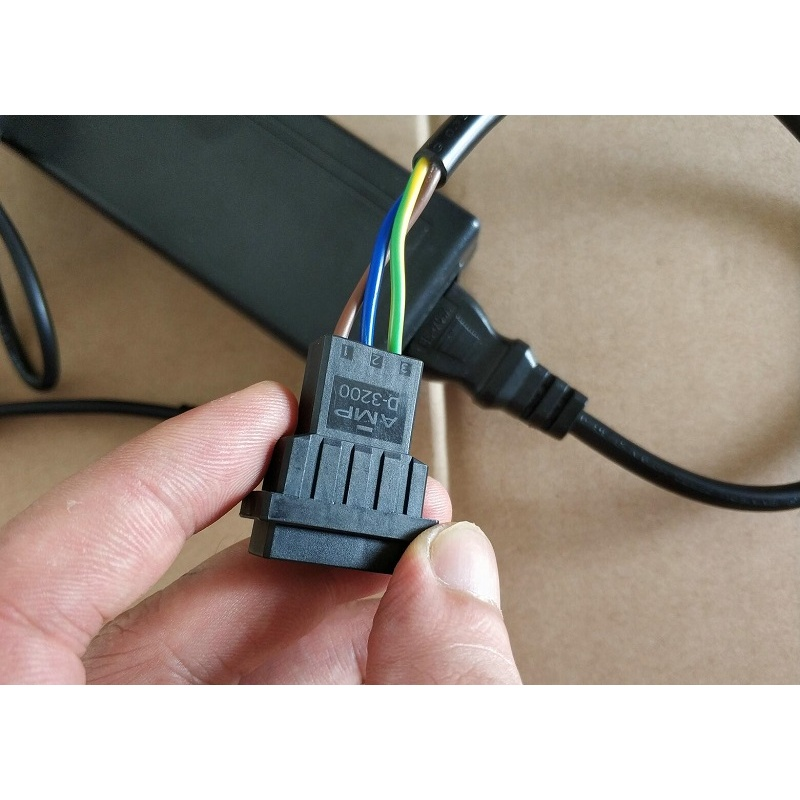
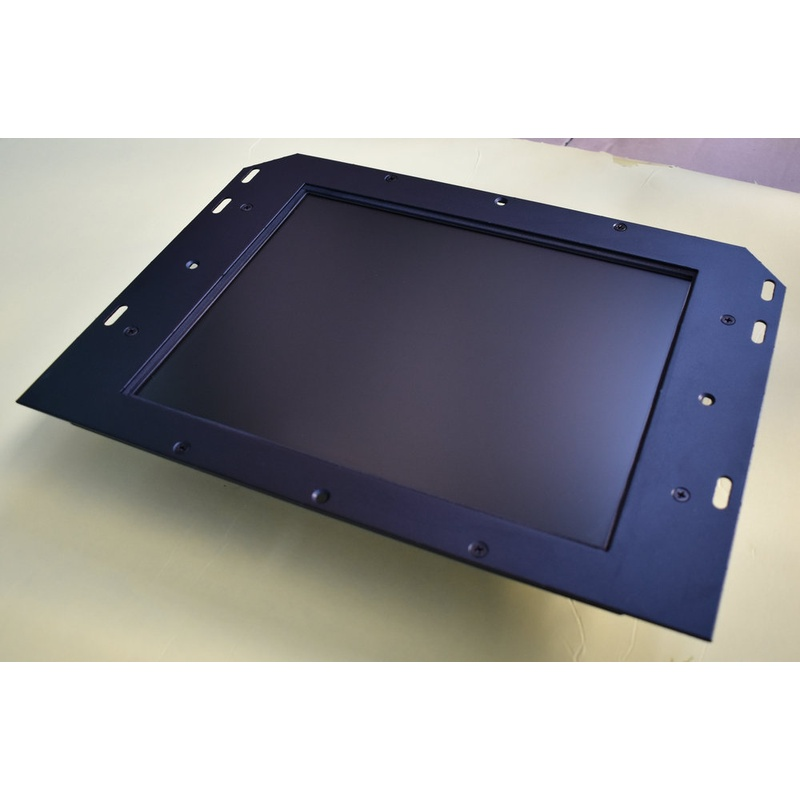
fix: A02B-0200-C071 9寸单色→14寸彩色, 新图+V3.4B

diff --git a/products/fanuc-a02b-0200-c071-lcd-upgrade.html b/products/fanuc-a02b-0200-c071-lcd-upgrade.html
@@ -108,7 +108,7 @@
 
 
 
-<title>FANUC A02B-0200-C071 Display Replacement LCD | 9-inch CRT Upgrade for CNC Systems | Kongto</title>
+<title>FANUC A02B-0200-C071 14-inch Color CRT to 12.1-inch LCD Upgrade | CNC Display Replacement | Kongto</title>
 
 
 
@@ -130,7 +130,7 @@
 
 
 
-<meta name="description" content="FANUC A02B-0200-C071 9-inch monochrome CRT to 8-inch TFT-LCD upgrade. FANUC A02B-0200-C071 9-inch CRT to 8-inch TFT-LCD upgrade. Factory direct, plug-and-play, no rewiring. Immediate shipping.">
+<meta name="description" content="FANUC A02B-0200-C071 14-inch color CRT to 12.1-inch TFT-LCD upgrade. Factory direct, plug-and-play replacement for FANUC CNC systems.">
 
 
 
@@ -284,7 +284,7 @@
 
 
 
-<meta property="og:title" content="FANUC A02B-0200-C071 Display Replacement LCD | 9-inch CRT Upgrade for CNC Systems | Kongto">
+<meta property="og:title" content="FANUC A02B-0200-C071 14-inch CRT to LCD Upgrade | Kongto">
 
 
 
@@ -2178,7 +2178,7 @@ body{font-family:-apple-system,BlinkMacSystemFont,"Segoe UI",Roboto,sans-serif;l
 
 
 
-<h1>FANUC A02B-0200-C071 9-inch Display LCD | CRT Upgrade</h1>
+<h1>FANUC A02B-0200-C071 14-inch Color CRT to 12.1-inch LCD Upgrade | CNC Display Replacement</h1>
 
 
 
@@ -2200,7 +2200,7 @@ body{font-family:-apple-system,BlinkMacSystemFont,"Segoe UI",Roboto,sans-serif;l
 
 
 
-<p class="desc">FANUC A02B-0200-C071 9-inch CRT to 8-inch TFT-LCD upgrade. Factory direct, plug-and-play, no rewiring. Immediate shipping.</p>
+<p class="desc">FANUC A02B-0200-C071 14-inch color CRT to 12.1-inch TFT-LCD upgrade. Factory direct, plug-and-play, in-position replacement for FANUC CNC systems. Ships from stock.</p>
 
 
 
@@ -2696,6 +2696,9 @@ body{font-family:-apple-system,BlinkMacSystemFont,"Segoe UI",Roboto,sans-serif;l
 <div class="gallery-thumbs">
 <img src="/images/fanuc-a02b-0200-c071-lcd-upgrade_lcd_front_0.jpg" alt="Product image" class="active" onclick="switchImage(this)">
 <img src="/images/fanuc-a02b-0200-c071-lcd-upgrade_lcd_back_1.jpg" alt="Product image" class="" onclick="switchImage(this)">
+<img src="/images/fanuc-a02b-0200-c071-lcd-upgrade_effect_2.jpg" alt="Product image" class="" onclick="switchImage(this)">
+<img src="/images/fanuc-a02b-0200-c071-lcd-upgrade_label_3.jpg" alt="Product image" class="" onclick="switchImage(this)">
+<img src="/images/fanuc-a02b-0200-c071-lcd-upgrade_crt_4.jpg" alt="Product image" class="" onclick="switchImage(this)">
 </div>
 
 
@@ -2730,19 +2733,19 @@ body{font-family:-apple-system,BlinkMacSystemFont,"Segoe UI",Roboto,sans-serif;l
 <h2>Specifications</h2>
 <div style="overflow-x:auto"><table class="spec-table">
 <tr><th>Spec</th><th>Original CRT</th><th>Kongto LCD</th></tr>
-<tr><td>Technology</td><td>9-inch Monochrome CRT</td><td>8-inch TFT-LCD Industrial Panel</td></tr>
-<tr><td>Resolution</td><td>640x400 / 640x480</td><td><strong>800x600</strong></td></tr>
-<tr><td>Brightness</td><td>~200 cd/m2</td><td><strong>350-450 cd/m2</strong></td></tr>
+<tr><td>Technology</td><td>14-inch Color CRT</td><td>12.1-inch TFT-LCD Industrial Panel</td></tr>
+<tr><td>Resolution</td><td>640x480</td><td><strong>800x600</strong></td></tr>
+<tr><td>Brightness</td><td>~200 cd/m²</td><td><strong>400 cd/m²</strong></td></tr>
 <tr><td>Lifespan</td><td>~15,000 hrs</td><td><strong>50,000+ hrs</strong></td></tr>
-<tr><td>Power</td><td>DC 24V</td><td>DC 24V (original)</td></tr>
-<tr><td>Interface</td><td>20-pin Honda MR-20M</td><td>20-pin Honda (direct compatible)</td></tr>
+<tr><td>Power Supply</td><td>DC 24V</td><td>DC 24V (compatible)</td></tr>
+<tr><td>Interface</td><td>20-pin Honda MR-20M</td><td><strong>20-pin Honda (direct compatible)</strong></td></tr>
+<tr><td>Signal Type</td><td>RGB analog</td><td>TTL / LVDS</td></tr>
 <tr><td>Safety</td><td>High voltage (10-15kV)</td><td>Low voltage DC</td></tr>
 </table></div><h2>Compatible Systems</h2>
 <ul>
-<li>FANUC Series 0 / 0-Mate / 0-TMate</li>
-<li>FANUC 0i-A / 0i-B / 0i-C / 0i-D</li>
+<li>FANUC Series 0i-A / 0i-B / 0i-C / 0i-D</li>
 <li>FANUC Series 16i / 18i / 21i</li>
-<li>All CNC machines with FANUC A02B-0200-C071 display</li>
+<li>All CNC machines with A02B-0200-C071 display</li>
 </ul><h2>Common CRT Failure Symptoms</h2>
 <ul>
 <li><strong>Blank screen / no power</strong> — Flyback transformer failure, most common in aging CRTs</li>

diff --git a/scripts/product_images.py b/scripts/product_images.py
@@ -33,9 +33,11 @@ MANUAL = {
         ('FANUC/FANUC Series O-P A02B-0099-C094-PBM单绿色/FANUC SERIES O-PD.jpg', 'label'),
     ],
     'fanuc-a02b-0200-c071-lcd-upgrade.html': [
-        ('FANUC/0074-0094/0074-94.jpg', 'lcd_front'),
-        ('FANUC/0074-0094/0074-94-02.jpg', 'lcd_back'),
-        ('FANUC/0074-0094/fanuc 替代效果.jpg', 'effect'),
+        ('FANUC/A02B-0200-C071-网上找的型号/s-l1600 (1).webp', 'lcd_front'),
+        ('FANUC/A02B-0200-C071-网上找的型号/8DS_0102.JPG', 'lcd_back'),
+        ('FANUC/A02B-0200-C071-网上找的型号/s-l1600 (2).webp', 'effect'),
+        ('FANUC/A02B-0200-C071-网上找的型号/s-l1600 (5).webp', 'crt'),
+        ('FANUC/A02B-0200-C071-网上找的型号/QQ图片20171020111048.jpg', 'label'),
     ],
     'fanuc-a61l-0001-0072-lcd-upgrade.html': [
         ('FANUC/0072-0076-0086-0090-0092/0092-0086-0076-同款白底-NEW/0092-0086-0076-BM.jpg', 'lcd_front'),
